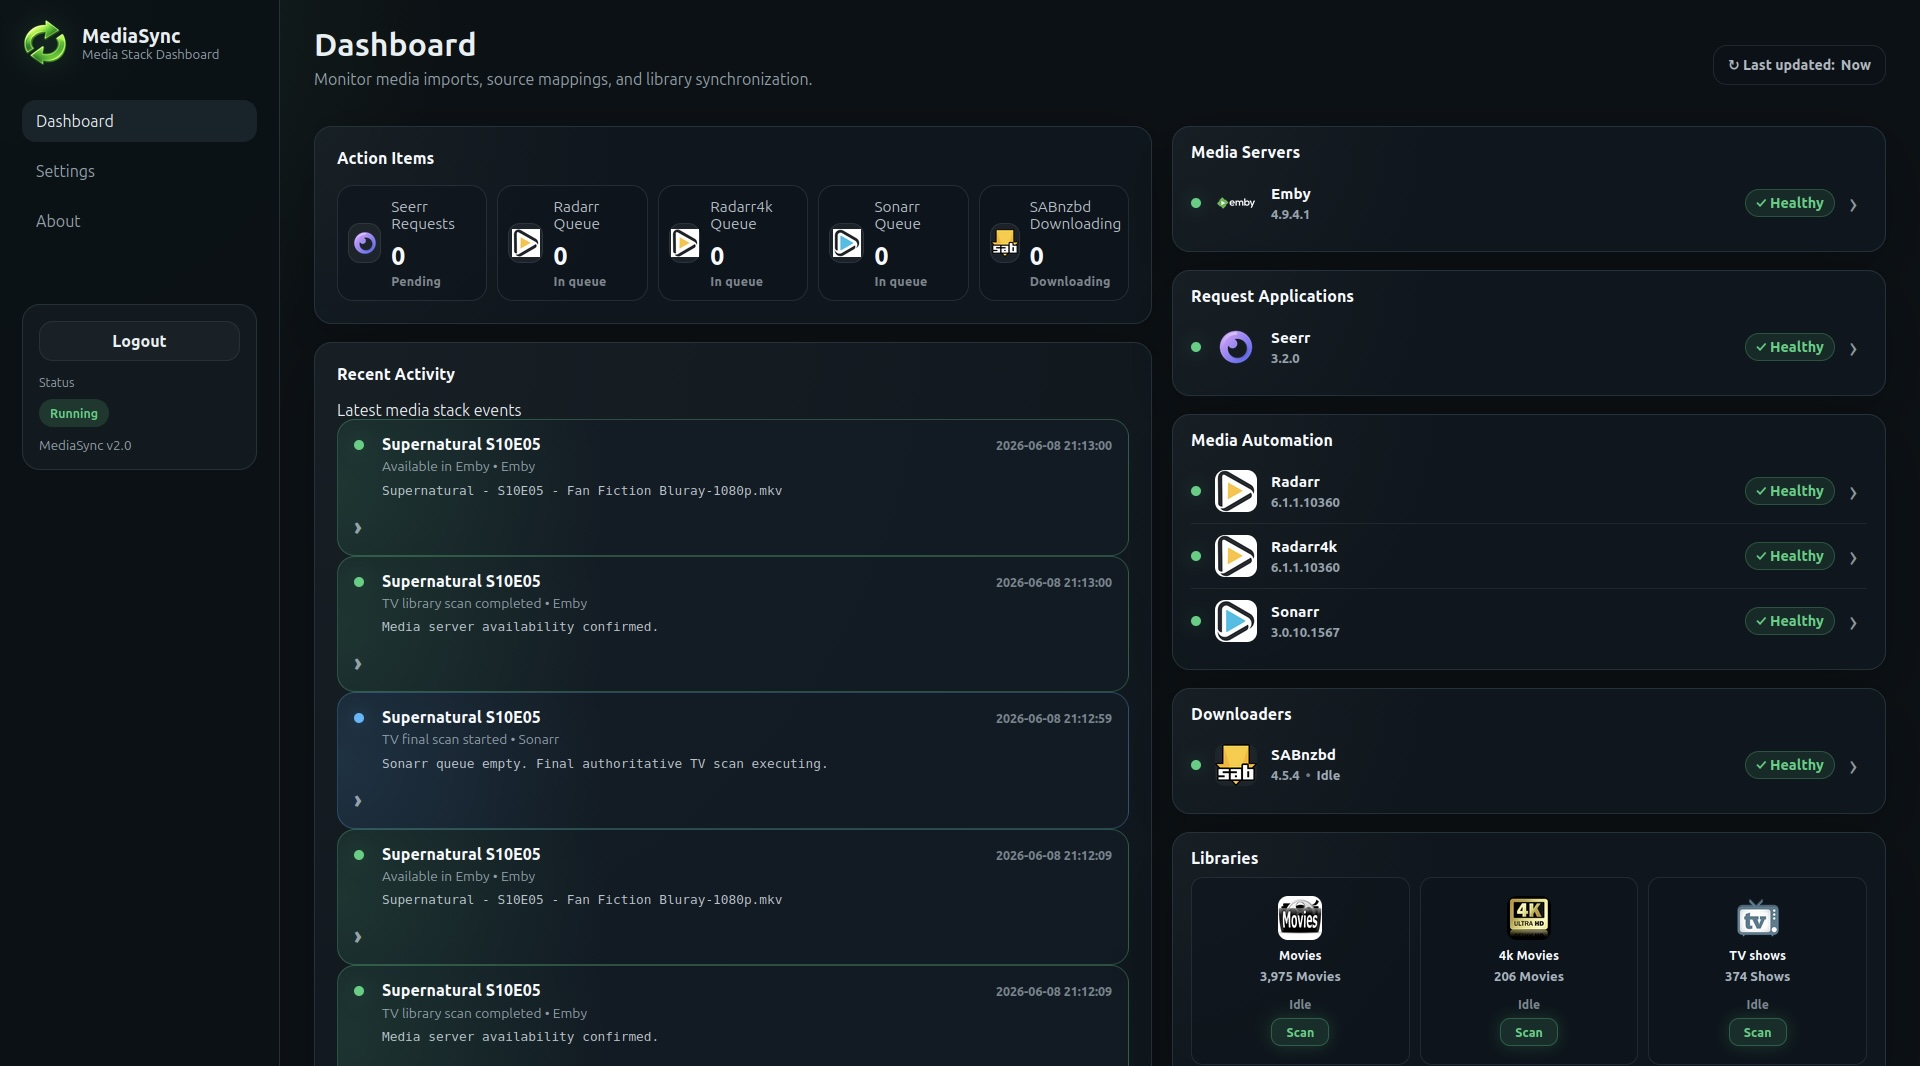
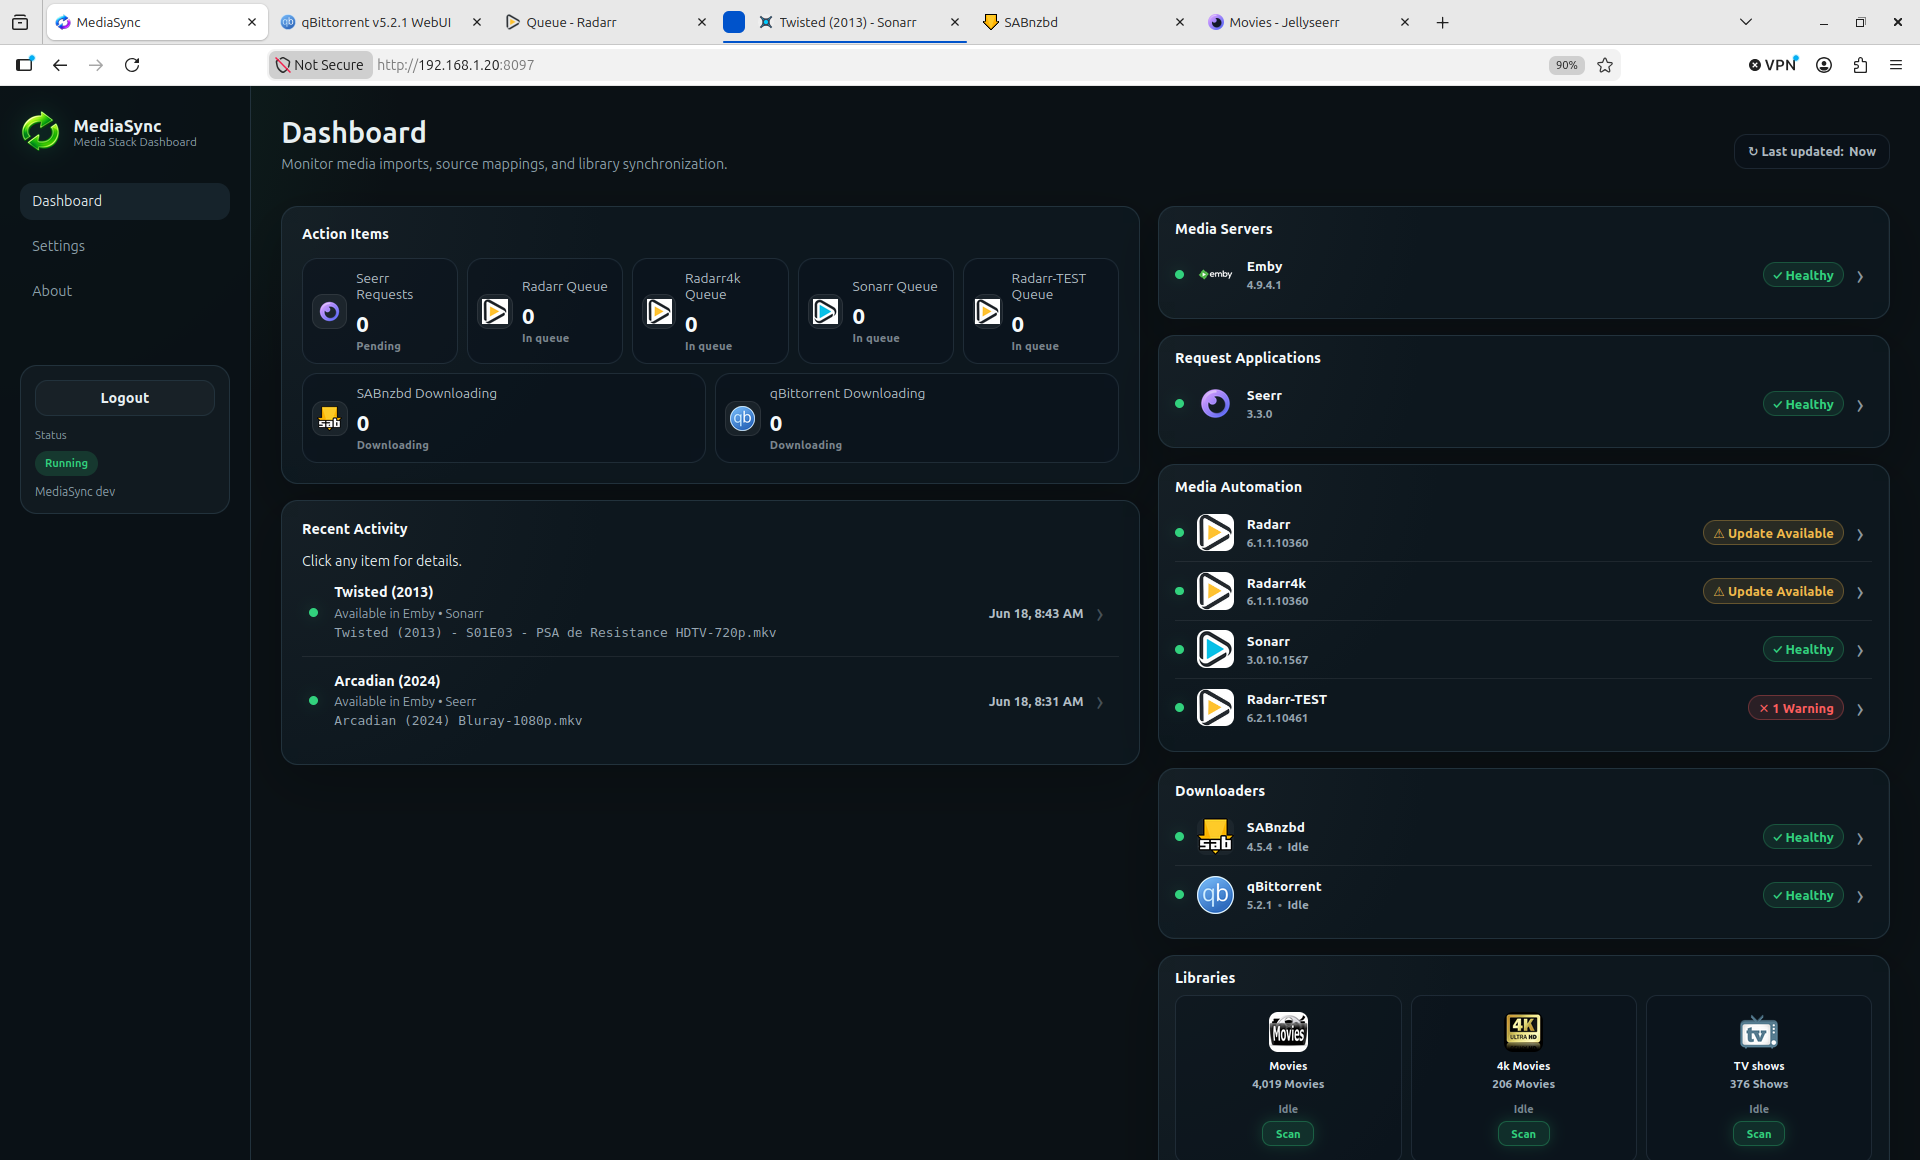
Release v2.1.4

diff --git a/README.md b/README.md
@@ -12,26 +12,26 @@
 </p>
 
 <p align="center">
-  MediaSync connects your request application, download client, media automation stack, and media server into a single dashboard. Track content from request through download, import, scan, and availability while monitoring the health of your media ecosystem from one place.
+  MediaSync provides visibility across the entire media pipeline, connecting requests, downloads, imports, scans, and media server availability into a single dashboard.
 </p>
 
 <p align="center">
   <strong>Request Tracking</strong> •
-  <strong>Download Visibility</strong> •
+  <strong>Live Download Visibility</strong> •
   <strong>Service Health Monitoring</strong> •
-  <strong>Smart TV Sync</strong> •
-  <strong>Multiple Instance Support</strong>
+  <strong>Queue-Aware TV Synchronization</strong> •
+  <strong>Multi-Instance Support</strong>
 </p>
 
 ---
 
 ## Why MediaSync?
 
-Modern media stacks are made up of multiple independent applications.
+Modern media stacks are made up of several independent applications.
 
-Requests, downloads, imports, scans, and media server availability are often spread across several dashboards.
+Requests happen in one application. Downloads happen in another. Imports, scans, and media server availability are tracked somewhere else.
 
-MediaSync brings the entire process together into a single view, providing visibility from request through availability.
+MediaSync brings the entire process together into a single view, allowing you to follow content from request through availability while also monitoring the health of the services that power your media ecosystem.
 
 ---
 
@@ -41,71 +41,31 @@ MediaSync brings the entire process together into a single view, providing visib
 
 ![Dashboard](app/static/img/screenshots/dashboard.png)
 
-The dashboard provides a live view of your media ecosystem.
+Monitor media servers, request applications, automation platforms, download clients, libraries, updates, warnings, and recent activity from a single dashboard.
 
-Features include:
+---
 
-- Service health monitoring
-- Request tracking
-- Download visibility
-- Library statistics
-- Availability tracking
-- Recent activity
-- Connected service status
+### Movie Request Tracking
 
-### Movie Progress Tracking
+![Movie Lifecycle](app/static/img/screenshots/movie_lifecycle.png)
 
-![Movie Progress](app/static/img/screenshots/movie_download.png)
+Track a movie from request through availability. MediaSync correlates requests, downloads, imports, scans, and media server updates into a single timeline while displaying metadata, quality profiles, poster artwork, and timing metrics.
 
-Track a movie from request through availability:
+---
 
-Requested
-↓
-Sent to Media Automation
-↓
-Downloading
-↓
-Imported
-↓
-Library Scan
-↓
-Available
+### Live TV Download Tracking
 
-The movie progress window provides:
+![TV Download](app/static/img/screenshots/tv_downloading.png)
 
-- Live download percentage
-- Import detection
-- Scan tracking
-- Availability confirmation
-- Request details
-- Media metadata
+Monitor active TV downloads in real time, including progress percentage, transfer speed, ETA, downloader status, and current processing stage.
 
-### TV Progress Tracking
+---
 
-![TV Progress](app/static/img/screenshots/tv_download.png)
+### TV Series Tracking and Synchronization
 
-Track TV episodes from request through availability:
+![TV Lifecycle](app/static/img/screenshots/tv_lifecycle.png)
 
-Requested
-↓
-Sent to Media Automation
-↓
-Downloading
-↓
-Imported
-↓
-Smart Scan
-↓
-Available
-
-The TV progress window provides:
-
-- Live download tracking
-- Queue visibility
-- Episode tracking
-- Smart scan status
-- Availability confirmation
-- Series information
+Follow TV content from Sonarr through download, import, queue-aware synchronization, smart scan processing, and final availability in your media server.
 
 ---
 
@@ -113,31 +73,29 @@ The TV progress window provides:
 
 ### Request Tracking
 
-MediaSync tracks requests from creation through download, import, scan, and availability.
+Track content from request through download, import, scan, and availability.
 
-### Download Visibility
+### Live Download Visibility
 
-Monitor supported download clients directly from MediaSync, including live progress percentages, status, speed, and download activity.
+Monitor supported download clients directly from MediaSync, including progress percentage, speed, ETA, status, and downloader activity.
 
 ### Availability Confirmation
 
-MediaSync verifies that content is actually available in your media server before reporting completion.
+MediaSync verifies that content is available in the media server before reporting completion.
 
 ### Immediate Movie Scans
 
-Movie imports trigger immediate library scans so new content appears quickly.
+Movie imports trigger immediate library scans so new content becomes available quickly.
 
-### Queue Aware TV Synchronization
+### Queue-Aware TV Synchronization
 
 TV imports are handled differently than movies.
 
-MediaSync performs an immediate scan on the first import, monitors the active queue, performs optional interim scans during active download sessions, and executes a final authoritative scan when the queue becomes empty.
-
-This keeps content available quickly without creating unnecessary scan activity during large download batches.
+MediaSync performs an initial scan after import, monitors active download queues, optionally performs interim scans during long-running download sessions, and executes a final scan when the queue becomes empty.
 
 ### Service Health Monitoring
 
-MediaSync monitors the health of connected services and displays status directly on the dashboard.
+Monitor connected services directly from the dashboard.
 
 Status indicators include:
 
@@ -148,28 +106,23 @@ Status indicators include:
 
 ### Multiple Instance Support
 
-MediaSync supports multiple instances of supported applications.
+Run multiple instances of supported applications while maintaining accurate tracking throughout the media pipeline.
 
-Requests, downloads, imports, scans, and availability tracking remain associated with the correct application instance throughout the process.
+### Rich Media Information
 
-### Library Statistics
+MediaSync enriches tracked content with information gathered from connected services, including:
 
-Monitor library totals directly from the dashboard.
-
-Library counts update automatically after successful scans.
+- Poster artwork
+- Quality profiles
+- Request source
+- Requester information
+- TMDB IDs
+- TVDB IDs
+- IMDB IDs
 
 ### Live Activity Feed
 
-Track events including:
-
-- Requests
-- Downloads
-- Imports
-- Movie scans
-- TV smart scans
-- Availability confirmation
-- Manual scans
-- Service events
+Track requests, downloads, imports, scans, availability events, and service activity as they happen.
 
 ### Authentication
 
@@ -177,7 +130,7 @@ MediaSync includes first-run account setup and session-based authentication.
 
 ### Progressive Web App
 
-MediaSync can be installed directly to mobile devices and used like a native application.
+Install MediaSync on mobile devices and use it like a native application.
 
 ---
 
@@ -212,13 +165,7 @@ Multiple instances are supported.
 
 ## Deployment
 
-MediaSync is designed for containerized deployment using Docker and Docker Compose.
-
-Example:
-
 ```yaml
-version: '3.8'
-
 services:
   mediasync:
     image: ghcr.io/dmesgnoise/mediasync:latest
@@ -243,12 +190,32 @@ docker compose up -d --build
 
 ## Future Plans
 
-- Additional Download Clients
+### Mobile Companion App
+
+A dedicated mobile companion app is planned for MediaSync.
+
+The goal is to provide visibility for both administrators and end users.
+
+Planned capabilities include:
+
+- Request status tracking
+- Download progress visibility
+- Availability notifications
+- Push notifications
+- Service health alerts
+- Queue monitoring
+- Remote administration features
+
+End users will be able to see where requested content is in the process without requiring access to Seerr, Radarr, Sonarr, or download clients.
+
+### Additional Roadmap Items
+
 - Unmanic Integration
 - Tdarr Integration
 - Transcoding Visibility
-- Space Savings Tracking
-- Additional Themes and UI Customization
+- Storage Savings Tracking
+- Additional Themes
+- Additional UI Customization
 
 ---
 
